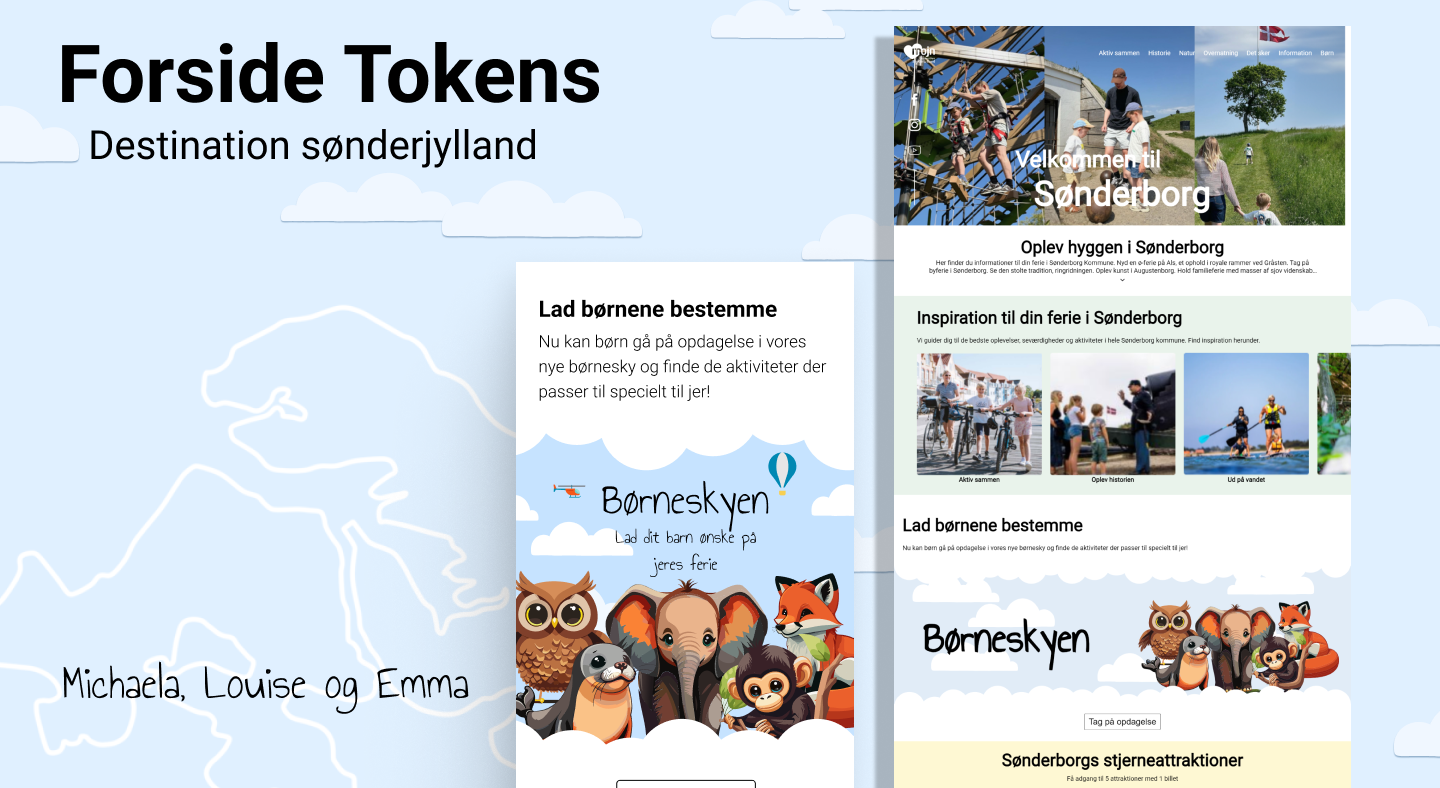
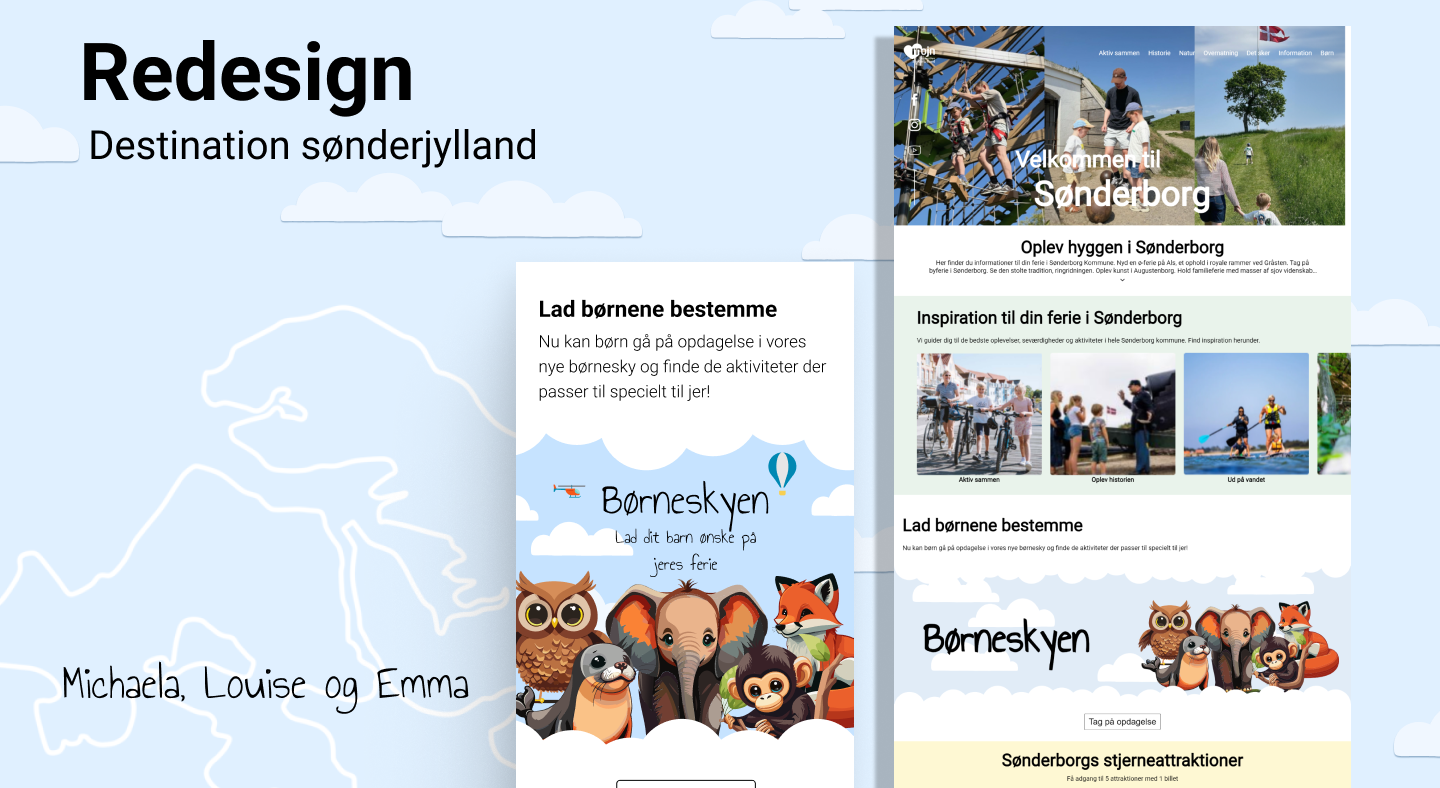
images gifs and such

Changed region(s): [[0.0312, 0.0305, 0.4375, 0.1523]]

diff --git a/ProjectThree.html b/ProjectThree.html
@@ -4,8 +4,97 @@
     <meta charset="UTF-8">
     <meta name="viewport" content="width=device-width, initial-scale=1.0">
     <title>Document</title>
+    <link rel="stylesheet" href="style.css">
+    <link rel="preconnect" href="https://fonts.googleapis.com">
+    <link rel="preconnect" href="https://fonts.googleapis.com">
+    <link rel="preconnect" href="https://fonts.gstatic.com" crossorigin>
+    <link href="https://fonts.googleapis.com/css2?family=Reenie+Beanie&family=Rubik+Mono+One&family=Rubik:ital,wght@0,300..900;1,300..900&display=swap" rel="stylesheet">
 </head>
-<body>
+<body class="body__projectOne">
+    <section class="page-header">
+        <button class="page-header__back-button">Tilbage?</button>
+        <section class="page-header__text header__text">
+        <h1 class="page-header__title header__title">Projekt</h1>
+        <h2 class="page-header__subtitle header__subtitle">Destination Sønderjylland Redesign</h2>
+        </section>
+      
+      
+        <section class="project-showcase">
+            <a href="DestinationRedesign/index.html" title="2. Semester Eksamen Project">
+                <img src="images/DestinationSonderJylland_banner.png" alt="Børneskyen Project Banner" class="project-showcase__header">
+            </a>
+        </section>
+      </section>
     
+<!-- Projekts Section -->
+<section class="projects__list projects__list--projectOne">
+    <!-- First project item -->
+    <section class="projects__item projects__item--1">
+        <img src="images/destination_SonderJylland.png" alt="Visit Sønderborg Project" class="projects__image">
+        <section>
+            <h3 class="projects__subtitle projects__subtitle--projects">Starten på projektet</h3>
+            <p class="projects__text projects__text--information">Destination Sønderjylland arbejder med at reklamere for aktiviteter og oplevelser i Sønderjylland. De ville have os til at hjælpe dem.</p>
+            <p class="projects__text projects__text--information">De bad os om at gøre deres hjemmeside mere moderne og mere interaktiv. Derudover skulle kunderne blive inpireret mens de befandt sig i by i sønderjylland f.eks. Sønderborg. Endeligt ønsker de styrke kontakten med de besøgende så de kommer tilbage. Men der skulle være noget nyt så børnefamilier ville være i fokus</p>
+        </section>
+    </section>
+
+    <!-- Second project item -->
+    <section class="projects__item projects__item--1">
+        <img src="images/Persona_VisitSønderjylland.png" alt="Visit Sønderborg Project" class="projects__image">
+        <section>
+            <h3 class="projects__subtitle projects__subtitle--projects">Primær Persona: Jonas, 6 år</h3>
+            <p class="projects__text projects__text--information">Vi havde fokus på 2 personer, et barn mig og min gruppe valgte som vores Primære: Jonas, 6 år. Ud fra ham lavede vi User Stories, Value Proposition Canvas og Empathy maps for at forstå hans pains og needs i forhold til ferie og ferie ønsker. </p>
+            <p class="projects__text projects__text--information">Så som: Han vil være med i beslutninger, han vil gerne se billeder af aktiviterne og en mere overskuelig ferie. Derudfra lavede vi første version af børneskyen og derefter efterarbejdede jeg på den og lavede den færdige version. </p>
+        </section>
+    </section>
+
+    <!-- Third project item -->
+    <section class="projects__item projects__item--1">
+        <img src="images/Sophie.PNG" alt="Visit Sønderborg Project" class="projects__image">
+        <section>
+            <h3 class="projects__subtitle projects__subtitle--projects">Sekundær Persona: Sophie, Mor til Jonas</h3>
+            <p class="projects__text projects__text--information"> Her lavede vi også User Stories, Value Proposition Canvas og Empathy maps. Vi derudfra fandt ud af at hendes mål for ferien var at have en god ferie på et budget, at hun kunne finde aktiviter og priser, simpelt og nemt. Det var vigtigt for hende at Jonas havde mulighed for at være med hele turen og aktiviterne var inde for hans aldersgruppe.</p>
+            <p class="projects__text projects__text--information"> Derudfra kiggede vi mest fra hendes synsvinkel i forhold til forsiden og mere til Jonas for Børneskyen som vi brugte som vores primære projekt</p>
+        </section>
+    </section>
+        <!-- Forth project item -->
+        <section class="projects__item projects__item--1">
+            <img src="images/DestinationSønderjylland_inpiration.gif" alt="Visit Sønderborg Project" class="projects__image">
+            <section>
+                <h3 class="projects__subtitle projects__subtitle--projects">Inspiration</h3>
+                <p class="projects__text projects__text--information"> Der var mange problemer der gik rundt, og et godt projekt starter altid med god inspiration, så der blev fundet lidt af hvert, der var inspiration med fokus på natur og med fokus på moderne. Vi delte det forskellige inspiration ind i flere katagorier så det var lettere at finde ud af hvilke elementer vi kunne lide og hvilke der var overflødige </p>
+                <p class="projects__text projects__text--information"> Vi besluttede efter at afprøve forskellige temaer at simpel og moderne var den bedste vej at gå. 
+                </p>
+            </section>
+        </section>
+        <!-- Fifth project item -->
+        <section class="projects__item projects__item--1">
+            <img src="images/scrum.PNG" alt="Visit Sønderborg Project" class="projects__image">
+            <section>
+                <h3 class="projects__subtitle projects__subtitle--projects">SCRUM projekt håndtering</h3>
+                <p class="projects__text projects__text--information"> SCRUM har været en utrolig effektiv måde at arbejde på, hvor jeg virkelig har fået et godt overblik over opgaverne. Ved at arbejde med SCRUM har jeg kunne prioritere opgavernes vigtighed, og samtidig få en bedre fornemmelse af, hvor meget tid der var til rådighed.</p>
+                <p class="projects__text projects__text--information"> Det har givet struktur og en klar retning, så jeg har kunnet arbejde fokuseret og målrettet, samtidig med at der var plads til at justere løbende. Derfor har jeg følt mig inspireret og effektiv, da jeg hele tiden har haft en god balance mellem at få tingene gjort og stadig have plads til kreativitet.</p>
+            </section>
+        </section>  
+        <!-- sixth project item -->
+        <section class="projects__item projects__item--1">
+            <img src="images/Crazy8.PNG" alt="Visit Sønderborg Project" class="projects__image">
+            <section>
+                <h3 class="projects__subtitle projects__subtitle--projects">Crazy 8, idegenerering</h3>
+                <p class="projects__text projects__text--information"> Vi brugte Crazy 8-metoden i vores projekt for at brainstorme løsninger på vores designudfordringer. Vi satte os ned i små grupper og brugte 8 minutter på at tegne 8 forskellige ideer til, hvordan vi kunne forbedre brugeroplevelsen.</p>
+                <p class="projects__text projects__text--information"> Det hjalp os med hurtigt at få mange forskellige perspektiver frem, som vi så kunne diskutere og videreudvikle. Metoden gjorde, at vi kom ud af vores vante tankemønstre og kom op med nogle mere kreative og sjove løsninger, som vi ellers ikke ville have tænkt på.</p>
+            </section>
+        </section>  
+        <!-- seventh project item -->
+        <section class="projects__item projects__item--1">
+            <img src="images/voiceai.PNG" alt="Visit Sønderborg Project" class="projects__image">
+            <section>
+                <h3 class="projects__subtitle projects__subtitle--projects">AI stemmer</h3>
+                <p class="projects__text projects__text--information">Da jeg skulle bruge individuelle stemmer, til de individuelle dyr. tænkte jeg at den letteste måde var at lave dem selv. Da stemmerne skulle lyde sjove og interresante for børn. Valgte jeg at bruge AI</p>
+                <p class="projects__text projects__text--information">Jeg begyndte at bruge en app der kunne ændre min stemme kaldet, voice.ai. Her satte jeg mig ned og lavede stemmer til de forskellige dyr, hvor AI gav lige det lidt ekstra step. Det var en god ny løsning, som gav pote for projektet og læringen</p>
+            </section>
+        </section> 
+</section>
+        </section>
 </body>
 </html>

diff --git a/index.html b/index.html
@@ -92,11 +92,11 @@
                 </a>
             
                 <!-- Third project item with image-text -->
-                <a href="ProjectOne.html" class="projects__item projects__item--1">
-                    <img src="images/visitSønderjylland_projekt.png" alt="Visit Sønderborg Project" class="projects__image">
+                <a href="ProjectThree.html" class="projects__item projects__item--1">
+                    <img src="images/DestinationSønderjylland.gif" alt="Visit Sønderborg Project" class="projects__image">
                     <section>
-                        <h3 class="projects__subtitle">Børneskyen – VisitSønderborg</h3>
-                        <p class="projects__text">Jeg designede Børneskyen, en interaktiv platform, hvor børn kunne vælge aktiviteter via dyrekarakterer med tilhørende temaer og lydfiler.</p>
+                        <h3 class="projects__subtitle">Destination Sønderjylland Forside</h3>
+                        <p class="projects__text">Redesign af Destination Sønderjyllands forside, med BEM navngivning, Figma components, Figma tokens, og meget mere</p>
                     </section>
                 </a>
             

diff --git a/style.css b/style.css
@@ -341,6 +341,7 @@
     width: 100%; /* Adjust the width as needed */
     height: auto; /* Maintain the aspect ratio */
     max-width: 650px; /* Optional: Limit the maximum width */
+    border-radius: 8px;
 }
 
 .projects__subtitle{
